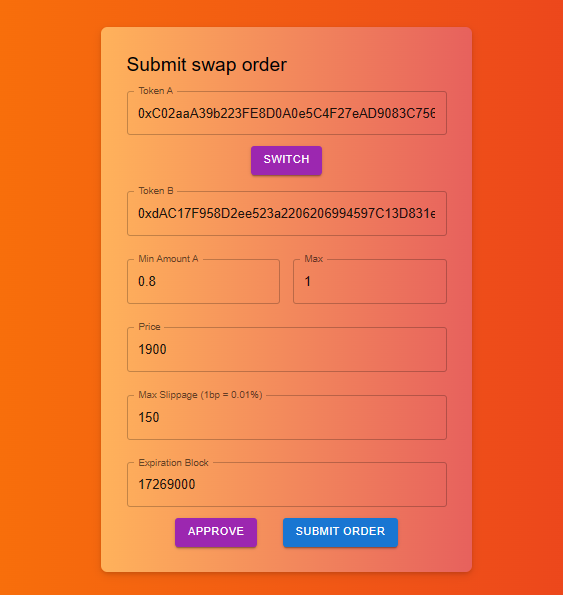
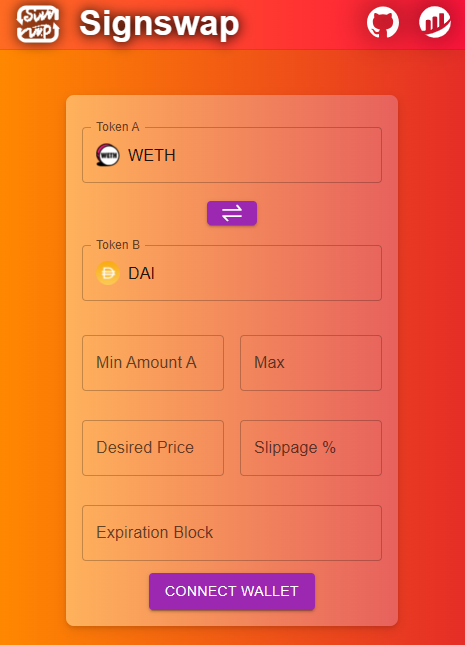
Update app screenshot

diff --git a/ui/src/App.js b/ui/src/App.js
@@ -203,8 +203,8 @@ function App() {
 		<div className="container-app">
 			<div className="container-top">
 				<div className="navbar">
-					<img className="navbar-logo" src="signswap_logo_white.png" alt="Signswap Logo" style={{ filter: 'drop-shadow(0 0 0.75rem #000000)' }} />
-					<Typography variant="h4" className="navbar-title" sx={{ color: 'white', fontWeight: 'bold', filter: 'drop-shadow(0 0 0.75rem #000000)' }}>
+					<img className="navbar-logo" src="signswap_logo_white.png" alt="Signswap Logo" style={{ filter: 'drop-shadow(0 0 0.4rem #000000)' }} />
+					<Typography variant="h4" className="navbar-title" sx={{ color: 'white', fontWeight: 'bold', filter: 'drop-shadow(0 0 0.4rem #000000)' }}>
 						Signswap</Typography>
 					<div className="navbar-links">
 						<IconGithub link="https://github.com/emilamaj/signswap" height="32" />
@@ -218,12 +218,12 @@ function App() {
 						alignItems="flex-start"
 						justifyContent="space-between">
 						<Stack direction="column">
-							<Typography
+							{/* <Typography
 								variant="h6"
 								sx={{
 									color: 'text.secondary',
 								}}
-							>Gasless swap</Typography>
+							>Gasless swap</Typography> */}
 						</Stack>
 					</Stack>
 
@@ -273,21 +273,24 @@ function App() {
 								margin="normal"
 							/>
 						</div>
-						<TextField
-							label="Desired Price"
-							value={price}
-							onChange={(e) => setPrice(e.target.value)}
-							fullWidth
-							margin="normal"
-						/>
-						<TextField
-							label="Max Slippage (1bp = 0.01%)"
-							value={maxSlippage}
-							onChange={(e) => setMaxSlippage(e.target.value)}
-							fullWidth
-							margin="normal"
-							autoComplete="off"
-						/>
+
+						<Stack direction="row" gap={2}>
+							<TextField
+								label="Desired Price"
+								value={price}
+								onChange={(e) => setPrice(e.target.value)}
+								fullWidth
+								margin="normal"
+							/>
+							<TextField
+								label="Slippage %"
+								value={maxSlippage}
+								onChange={(e) => setMaxSlippage(e.target.value)}
+								fullWidth
+								margin="normal"
+								autoComplete="off"
+							/>
+						</Stack>
 						<TextField
 							label="Expiration Block"
 							value={expiration}
@@ -296,11 +299,8 @@ function App() {
 							margin="normal"
 						/>
 						<div className="container-buttons">
-							<Button variant="contained" color="secondary" onClick={handleApprove}>
-								Approve
-							</Button>
-							<Button type="submit" variant="contained" color="primary">
-								Swap
+							<Button type="submit" variant="contained" color="secondary">
+								{account ? "Swap" : "Connect wallet"}
 							</Button>
 							{/* <IconShow isShow={isAdvanced}
 								action={() => {
